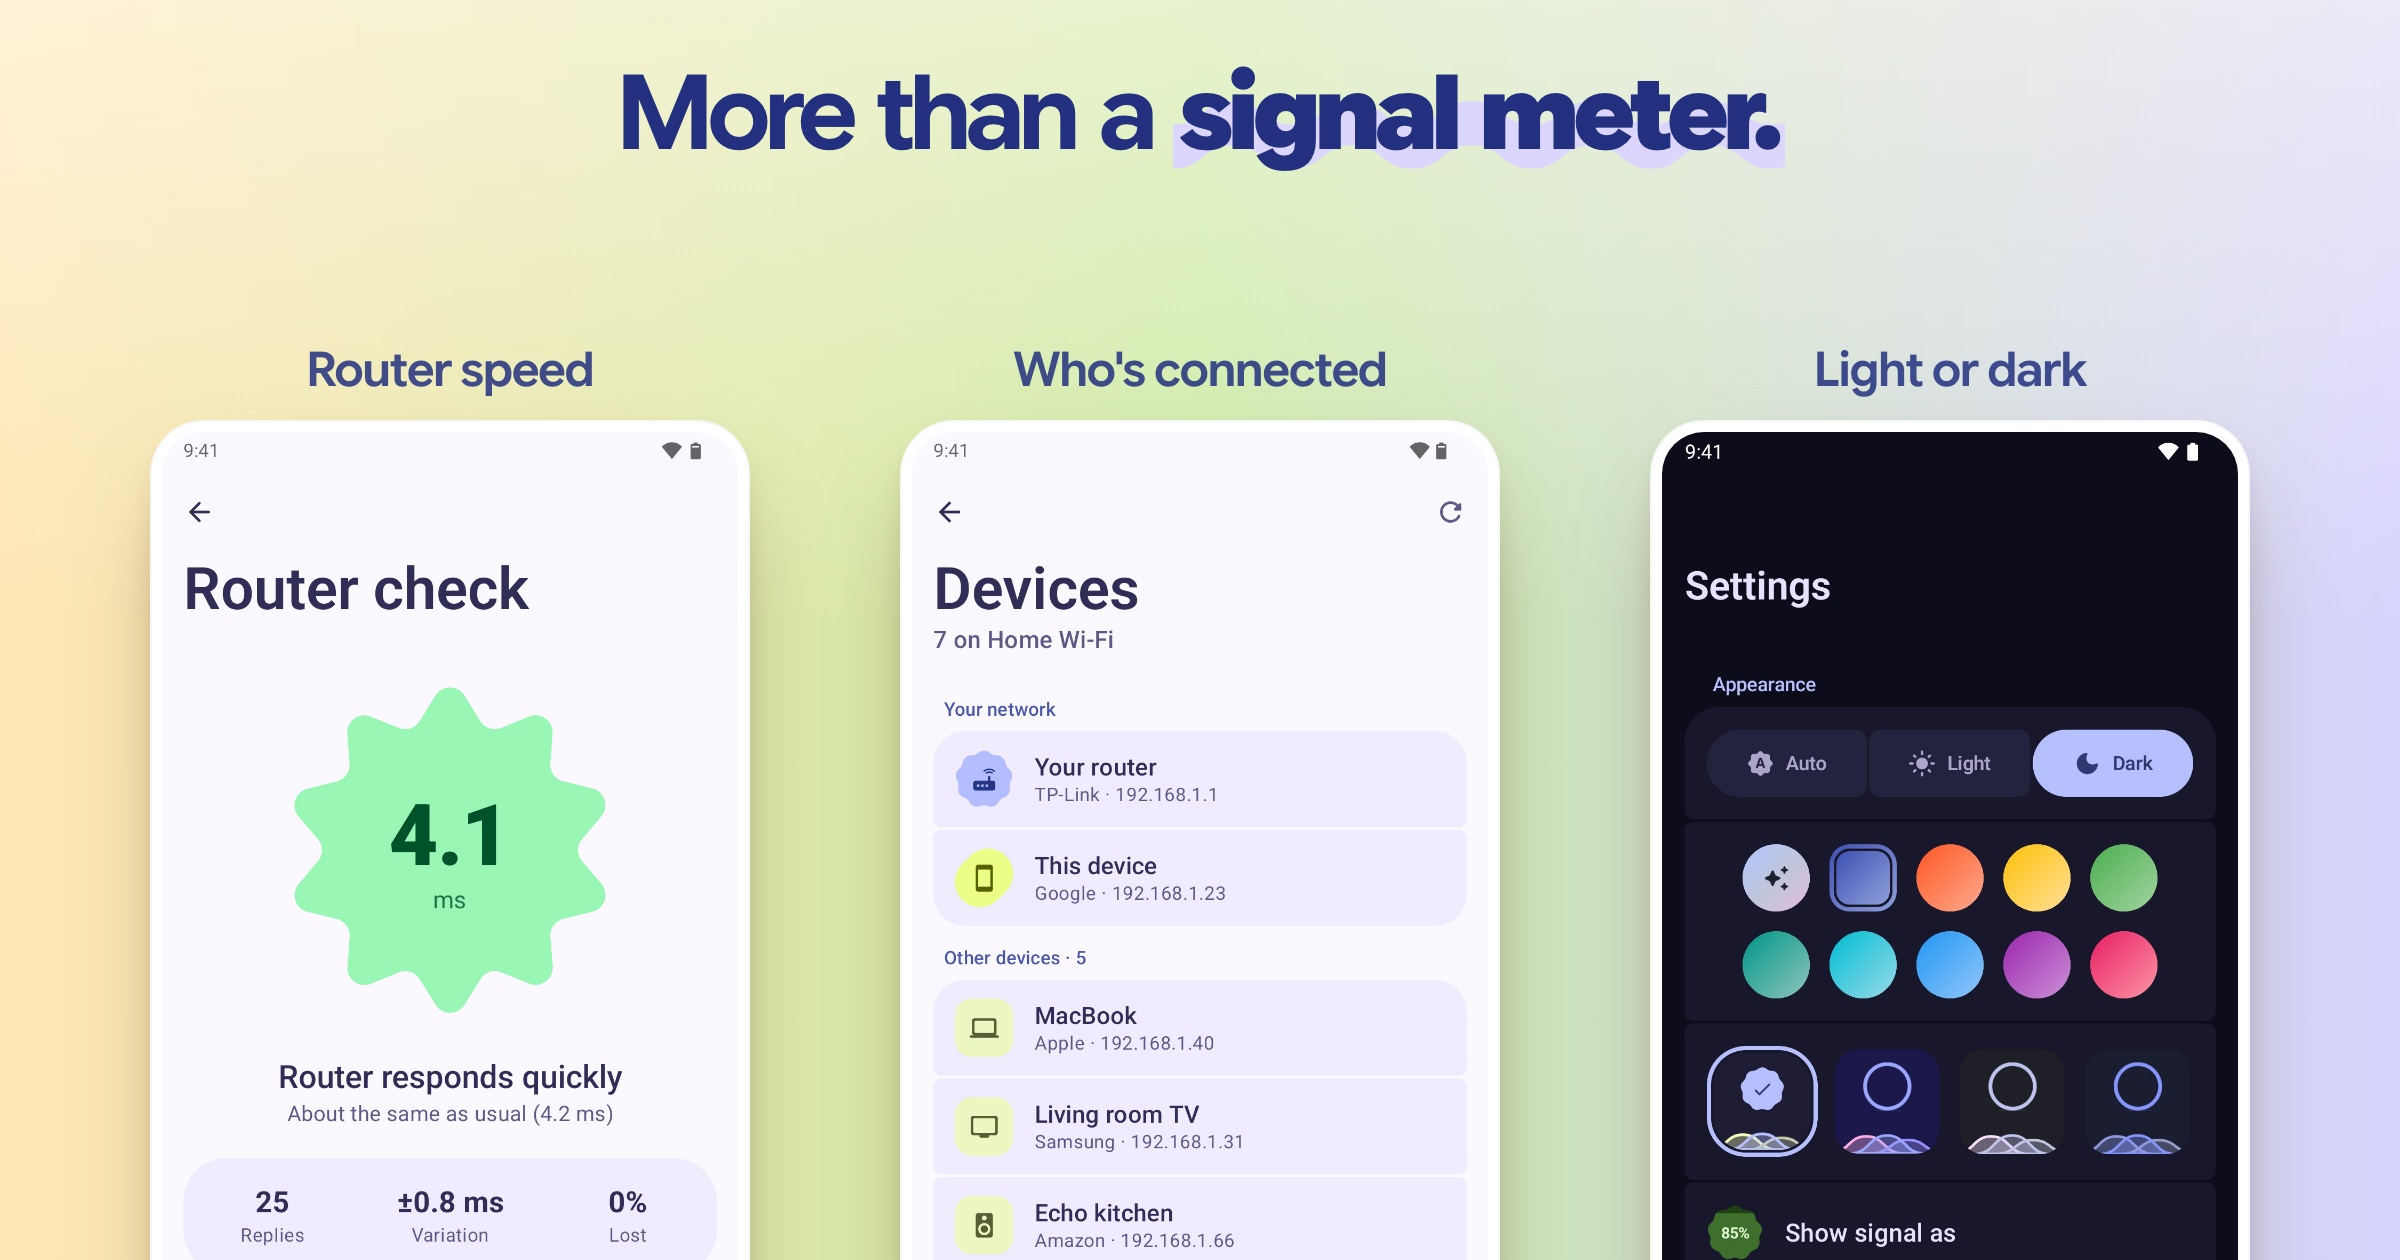
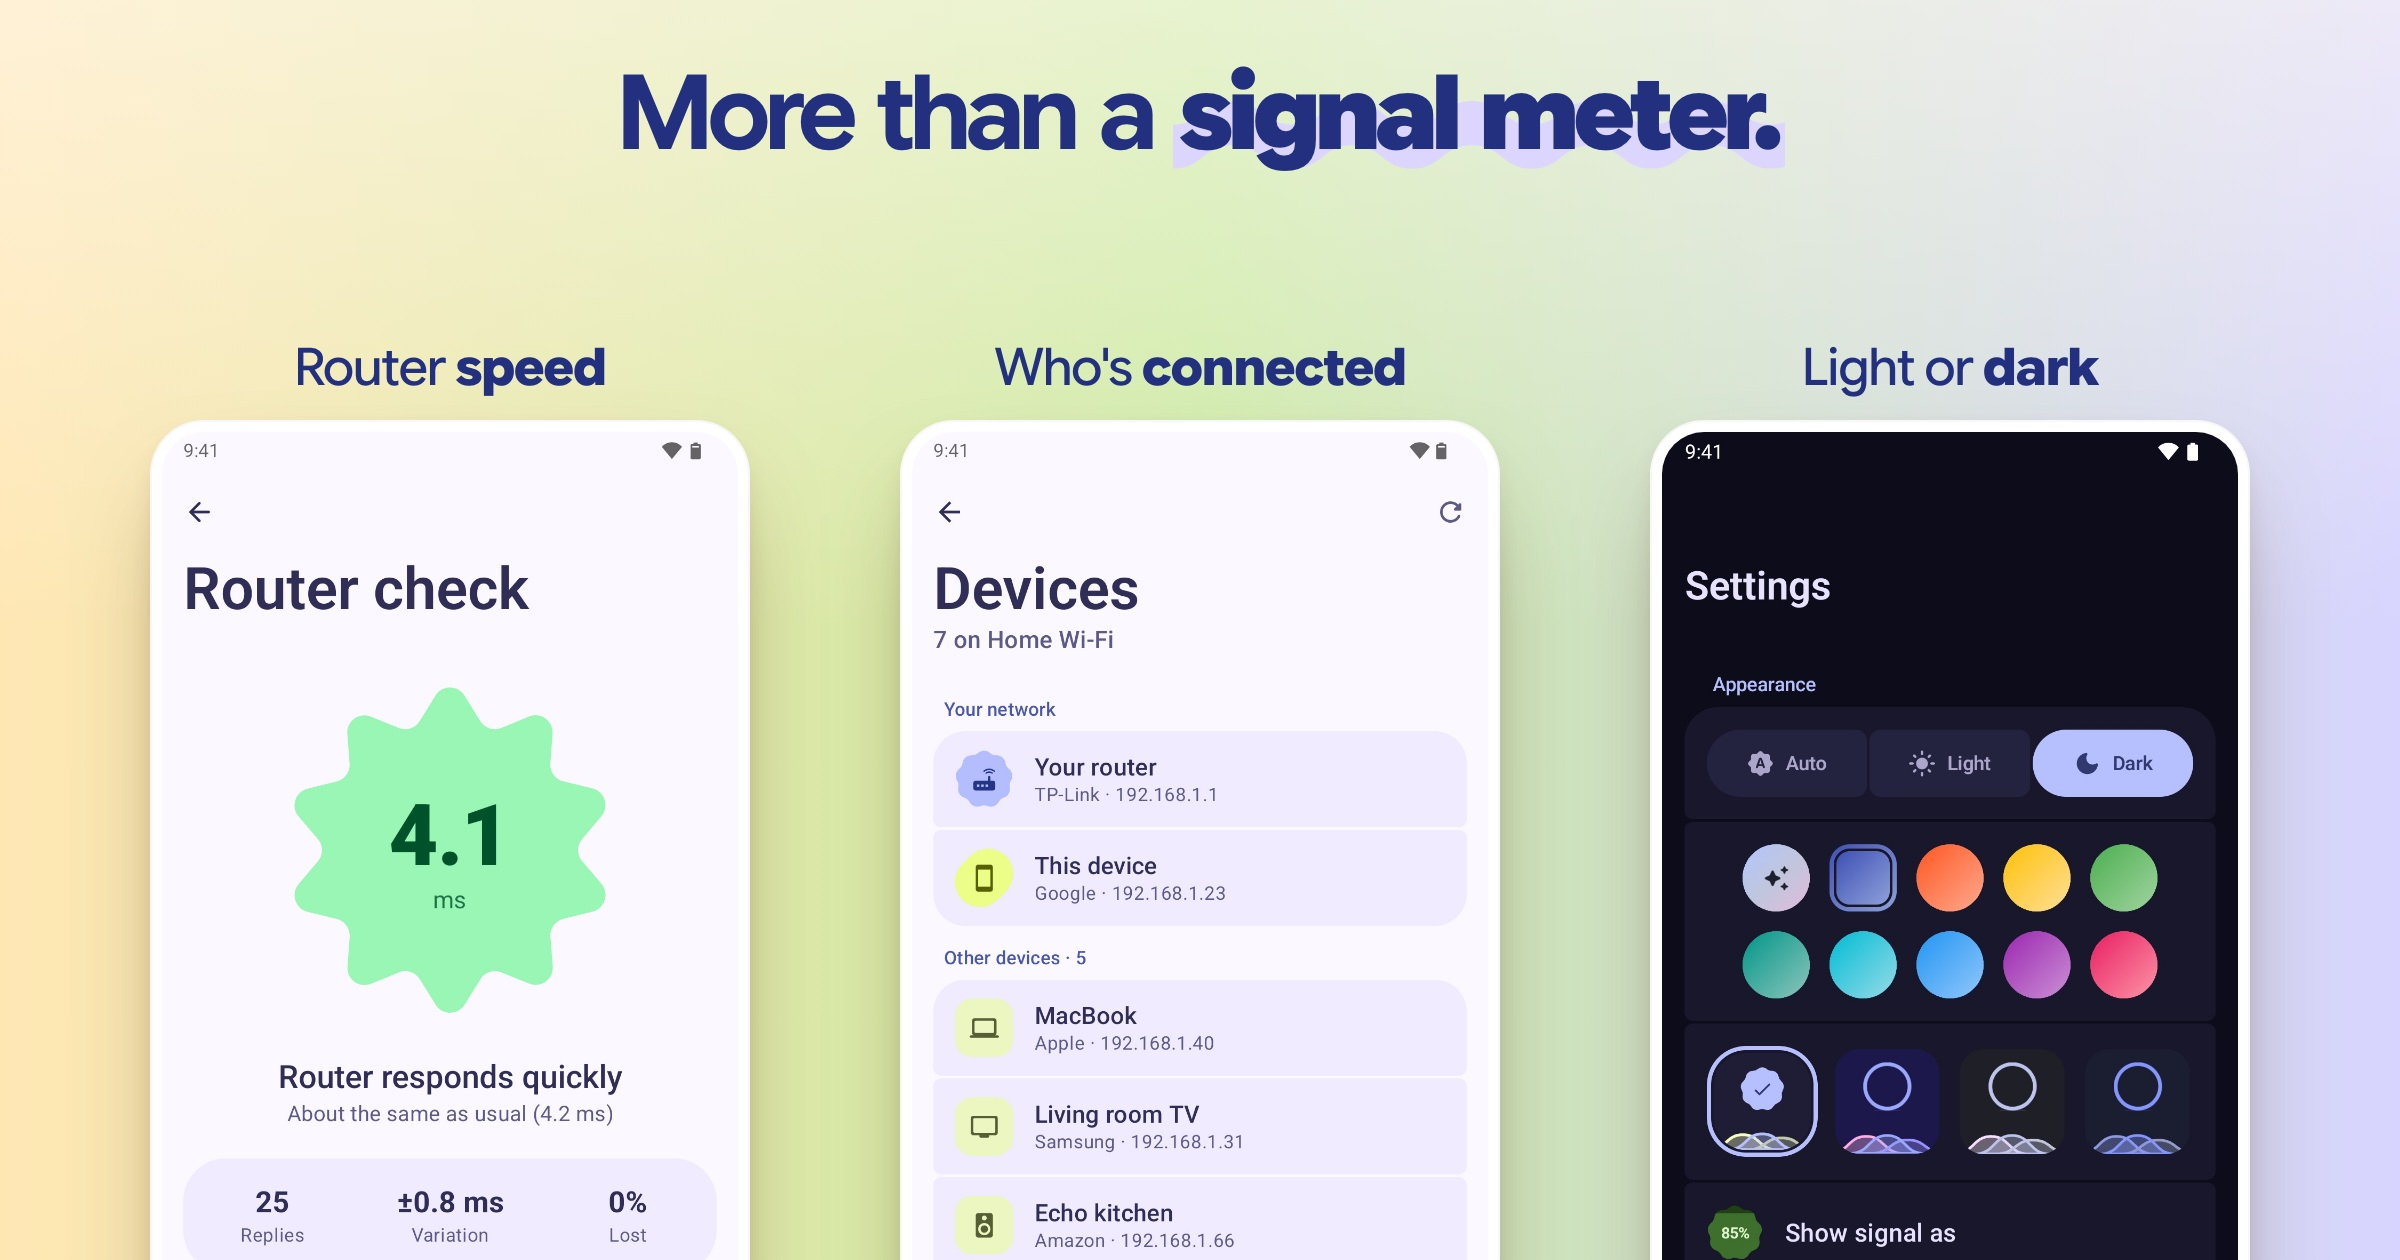
README tools captions stress one word by weight; the headline keeps the only wave
Router speed, Who's connected, Light or dark: chosen after rendering plain, waved, bold and caption-free variants.

Changed region(s): [[0.4062, 0.2786, 0.5938, 0.3095], [0.75, 0.2786, 0.875, 0.3095], [0.125, 0.2786, 0.25, 0.3095]]

diff --git a/store-listing/theme.css b/store-listing/theme.css
@@ -62,4 +62,6 @@ header p{margin:26px 0 0;font-size:40px;line-height:1.24;font-weight:400;letter-
 .readme .trio .one{left:150px}
 .readme .trio .two{left:900px}
 .readme .trio .three{left:1650px}
-.readme .trio .device-label{transform:translateY(calc(-100% - 26px));text-align:center;font-size:48px;line-height:1;font-weight:600;letter-spacing:-1px;color:var(--ink);opacity:.85}
+.readme .trio .device-label{transform:translateY(calc(-100% - 26px));text-align:center;font-size:52px;line-height:1;font-weight:480;letter-spacing:-1px;color:var(--ink)}
+/* Captions stress one word by weight alone; the headline keeps the only wave. */
+.readme .trio .device-label em{background:none;padding:0;margin:0;font-weight:800}
